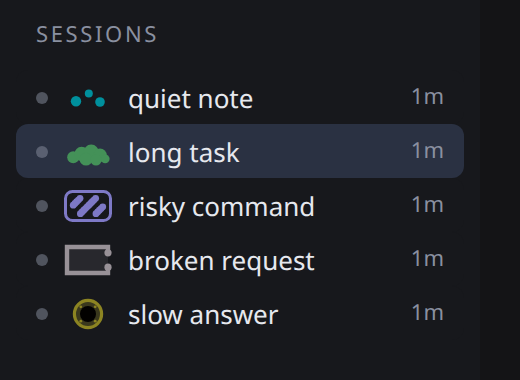
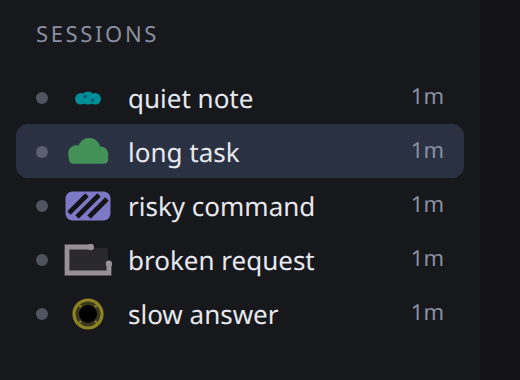
design: v2.1 round 3 — coarse marks (small oval / large cloud / filled striped chip / hollow square with missing corner / ringed eye), field lane from the real layout, anchored eye-spot, rim gap and firmer error

diff --git a/docs/design/IMPLEMENTATION.md b/docs/design/IMPLEMENTATION.md
@@ -6,10 +6,10 @@ Everything below is exact. Reference renders: `contact-marks.png`, `contact-ligh
 
 | surface | v2.0 | v2.1 |
 |---|---|---|
-| sidebar mark | 28×14 dot glyphs, low ink (ΔL ≤ 0.30), error = faint beads, eye-spot = pale blob | **24×16** chip, ink picked for ≥ 3.6:1 on the row (floor 3.0:1, WCAG 1.4.11), five distinct silhouettes: dots / cloud / striped plate / **hollow square with a broken frame (error, grey, angular)** / **pale disc, crisp ring, one big dark core (finished-unseen, round)** |
+| sidebar mark | 28×14 dot glyphs, low ink (ΔL ≤ 0.30), error = faint beads, eye-spot = pale blob | **24×16** chip, ink picked for ≥ 3.6:1 on the row (floor 3.0:1, WCAG 1.4.11), five categorically different marks at 1×: **one small soft oval** / **a large solid flat-bottomed cloud** / **a FILLED chip with 3 bold bars (loudest)** / **a HOLLOW pale grey square with a missing corner** / **a ringed round eye with a big dark core** |
 | status strip | glyph + label, clipped | same mark at ×0.875 (21×14) + label, one nowrap row, verified not clipped |
 | composer rim | 6 px, five unrelated bands | **one system**: a 10 px pill (same placement, same round end caps) whose fill/outline echo the mark: hairline / lobe train / stripes / wash + broken frame / one eye |
-| field | big dots everywhere, text covered | **no organ in the reading lane**: the left 60 % of the width, the top 5 % and the bottom 12 % (title, text, cards, composer) stay clear; needs-you swell 1.8, error swell 1.9 (quiet, pale); eye-spot = one dark disc (4.3 × median organ radius) in the right gutter |
+| field | big dots everywhere, text covered | **no organ in the reading lane**, placed from the measured real layout: x ≥ max(0.6·W, 704 px), y from 64 px to 88 % of H (header, cards, composer stay clear); needs-you swell 1.8, error swell 1.9 (quiet, pale); eye-spot = one dark disc (4.3 × median organ radius), anchored at (0.90·W, 0.30·H) for every session |
 | working motif | clouds only in places | cloud lobes on every surface (sidebar cloud = 7 lobes, rim = lobe trains, field = soft lobes) |
 
 Contract facts the design was fitted to (do not "improve" past them):
@@ -31,10 +31,13 @@ worst    = sRGB(OKLab(clamp(lab.L + dir*SELECT, .01, .99), lab.a, lab.b))
 ink(h,C) = the L nearest the ground (bisect 24 steps between lab.L and dir>0 ? 0.97 : 0.04) such that
            contrast(oklchToHex(L, C, h), ground) ≥ 3.6  AND  contrast(…, worst) ≥ 3.6        // WCAG relative luminance
 palette  = { chroma: ink(hue, 0.115),          // the identity pigment
+             soft:   ink(hue, 0.115, minContrast=3.5),   // resting: the quietest ink, still ≥ 3:1 on every row tint
              blanch: ink(hue, 0.012, minContrast=4.5),   // error: near-achromatic (meanChroma ≤ 0.03); a bold grey frame, never a faint one
              spot:   oklchToHex(dir>0 ? 0.07 : 0.17, 0.03, hue),   // the pupil: near-black on both grounds
+             paper:  ground,                         // bars/flecks drawn "out of" a filled mark: the chat ground itself (never a new hue)
              wash:   palette.blanch }          // used only as a pale plate (alpha 0.14 in the mark, 0.30 in the rim), never as ink
 ```
+`paper` is not an organ pigment: it appears only in `extras` (never in `dots`, so the contract's hue-drift test never sees it). contrast(paper, chroma) = contrast(ground, chroma) ≥ 3.6 by construction.
 Worked values (hue 205): `#fefefe → chroma #007c8a, blanch #697274, spot #001316`; `#141416 → #00909d, #798485, #000203`; `#2e3440 → #2dbbc9, #a2adae, #000203`.
 
 Swatch/strip dots are **opaque**: `dot.color = palette[pigment]`, `dot.alpha = intensity > 0 ? 1 : 0` (intensity dial: 0 = off; any intensity ≥ 1 is full; between, `min(1, intensity)`). This is the only place the dial acts on marks, and it keeps the existing unit test "intensity 0 switches the glyph off".
@@ -46,34 +49,36 @@ New file `desktop/src/domain/ink.ts`: `contrast(a,b)`, `inkFor(hue, chroma, grou
 Box `GLYPH_W=24, GLYPH_H=16` (design units = CSS px). Strip: every coordinate and radius × `STRIP_K = 0.875` (21×14). Each state = `dots` (circles → the domain's `Dot[]`, role `'organ'` unless stated) + `extras` (non-circle SVG shapes).
 
 ```
-resting          pigment chroma
-  [x,y,r]  [6,9.6,2.6] [12.4,5.8,2] [18,10,2.4]
-  extras   none
+Coarse features first (read at 1×, next to core's grey 7 px bullet): resting = ONE small quiet oval · working = a LARGE solid flat-bottomed cloud ·
+needs you = a FILLED chip with 3 bold bars (loudest) · error = a HOLLOW pale grey square with a big missing corner · finished = a round ringed eye.
 
-working          pigment chroma   (seven overlapping lobes, all opaque: one solid cloud)
-  [4.6,10.6,3] [8.8,9,3.6] [13.6,8.2,3.9] [18,9.6,3.4] [20.6,11.4,2.2] [11,11.6,3.2] [16,12,2.8]
-  extras   none
+resting          pigment soft   (one soft oval blob, 12×6 — never separate dots, so it cannot read as an ellipsis next to core's bullet)
+  dots     [8.4,8.4,r2.9] [12,8,r3.3] [15.6,8.4,r2.9]                     (soft)
+  extras   (ABOVE the dots) <ellipse cx=10.6 cy=7.2 rx=.8 ry=.8 fill=paper fill-opacity=.45/>  <ellipse cx=14.2 cy=9.2 rx=.7 ry=.7 fill=paper fill-opacity=.45/>   (the mottle)
 
-needs_you        pigment chroma   (twenty r=1.7 dots on three "/" bars, step 1.2 along 45°, kept inside [2.3,21.7]×[2.3,13.7])
-  [4.62,7.58] [5.47,6.73] [6.32,5.88] [7.17,5.03] [8.02,4.18]
-  [8.18,11.82] [9.03,10.97] [9.88,10.12] [10.73,9.27] [11.58,8.42] [12.42,7.58] [13.27,6.73] [14.12,5.88] [14.97,5.03] [15.82,4.18]
-  [15.98,11.82] [16.83,10.97] [17.68,10.12] [18.53,9.27] [19.38,8.42]          (all r = 1.7)
-  extras   <rect x=.75 y=.75 width=22.5 height=14.5 rx=3.5 fill=none stroke=chroma stroke-width=1.5/>
+working          pigment chroma   (a large solid cloud: three lobes on a flat base, ≈ 20×13)
+  dots     [6.4,8.9,r4.4] [12.6,6.6,r5.6] [18.2,9.2,r4.0]
+  extras   (BELOW) <rect x=2.4 y=9 width=19.8 height=4.9 rx=2.4 fill=chroma/>   (the flat bottom)
 
-error            pigment blanch   (a pale, hollow, SQUARE chip; its frame is broken at the right with a clear notch; two round ends where it breaks)
-  dots     [22,4.4,r1.8] [22,11.6,r1.8]  (pigment blanch)
-  extras   <rect x=2 y=2 width=20 height=12 rx=1 fill=blanch fill-opacity=.14/>               (the pale plate; FIRST)
-           <path d="M22 4.4 V1.5 H1.5 V14.5 H22 V11.6" fill=none stroke=blanch stroke-width=2.2 stroke-linejoin=miter/>   (the broken frame: open between y 4.4 and 11.6)
+needs_you        pigment chroma   (a FILLED chip, saturated, with three bold paper-coloured diagonal bars: the loudest mark)
+  dots     r=3 at [5,5] [12,5] [19,5] [5,11] [12,11] [19,11]               (chroma; they carry the contract's ink and sit under the plate's colour)
+  extras   (BELOW)  <rect x=.75 y=.75 width=22.5 height=14.5 rx=3.5 fill=chroma/>
+           (ABOVE)  <path d="M2.5 11.5 L11.5 2.5" stroke=paper stroke-width=2.4/>  <path d="M6.5 13.5 L17.5 2.5" …/>  <path d="M12.5 13.5 L21.5 4.5" …/>   (butt caps; same paper, width 2.4)
 
-finished_unseen  (a pale disc, a crisp ring, ONE big dark core, four iris flecks; ROUND)
-  dots     four flecks r=0.7 (chroma) at (12+5.1cosθ, 8+5.1sinθ), θ = 45°,135°,225°,315°  — the "organs" the contract's spotRatios compares to
-           core [12,8,r4.0] pigment spot, role 'eyespot'      (LAST entry; the only 'eyespot' dot; ratio 4.0/0.7 = 5.7)
-  extras   <ellipse cx=12 cy=8 rx=6.8 ry=6.8 fill=chroma fill-opacity=.30/>                   (the pale disc; FIRST — on dark grounds it is the light halo)
-           <ellipse cx=12 cy=8 rx=6.8 ry=6.8 fill=none stroke=chroma stroke-width=1.6/>        (the crisp ring; an <ellipse>, never a <circle>)
+error            pigment blanch   (a HOLLOW pale chip, never filled; the top-right corner is MISSING; two round ends where the frame breaks)
+  dots     [13.4,1.5,r1.6] [22.5,9.9,r1.6]                                  (blanch)
+  extras   (BELOW)  <rect x=2 y=2 width=20 height=12 rx=1 fill=blanch fill-opacity=.14/>     (the pale plate)
+           (BELOW)  <path d="M13.2 1.5 H1.5 V14.5 H22.5 V9.9" fill=none stroke=blanch stroke-width=2.4 stroke-linejoin=miter/>   (open: no top-right corner)
+
+finished_unseen  (a pale disc, a crisp ring, ONE big dark core, four iris flecks; ROUND, 15.6 across)
+  dots     four flecks r=0.6 (chroma) at (12+5.5cosθ, 8+5.5sinθ), θ = 45°,135°,225°,315°   (the small "organs" spotRatios compares to)
+           core [12,8,r4.5] pigment spot, role 'eyespot'      (LAST dot; the only 'eyespot' dot; ratio 4.5/0.6 = 7.5)
+  extras   (BELOW)  <ellipse cx=12 cy=8 rx=7 ry=7 fill=chroma fill-opacity=.30/>              (the pale disc; on dark grounds it is the light halo)
+           (BELOW)  <ellipse cx=12 cy=8 rx=7 ry=7 fill=none stroke=chroma stroke-width=1.6/>  (the crisp ring: an <ellipse>, never a <circle>)
 ```
-Draw order in the SVG: extras first, then dots (the order of the arrays). `svgElement` gets an optional `extras` argument (adapters/svg.ts) and renders `rect`/`ellipse`/`path` nodes through the same `jsx` factory with the raw numbers.
+Draw order in the SVG: extras marked BELOW, then the dots (array order), then extras marked ABOVE (`above: true`). `svgElement` gets an optional `extras` argument (adapters/svg.ts) and renders `rect`/`ellipse`/`path` nodes through the same `jsx` factory with the raw numbers.
 
-Domain API (unchanged signatures): `glyphOf(base)` keeps returning `GlyphDot[]` (`{x,y,r,pigment:'chroma'|'blanch'|'spot'}`; drop the `ink` field); add `glyphExtras(base): GlyphExtra[]` (`{k:'rect'|'ellipse'|'path', …, pigment:'chroma'|'blanch', alpha?, stroke?}`) and export `GLYPH_W=24, GLYPH_H=16, STRIP_K=0.875`. `renderSwatch`/`renderStrip` still return `{dots,width,height}` (strip: ×K); add `extras` to the returned object (`{dots, width, height, extras}`); `renderSmall` no longer calls `alphaFor/effectiveDl`.
+Domain API (unchanged signatures): `glyphOf(base)` keeps returning `GlyphDot[]` (`{x,y,r,pigment:'chroma'|'soft'|'blanch'|'spot'}`; drop the `ink` field); add `glyphExtras(base): GlyphExtra[]` (`{k:'rect'|'ellipse'|'path', …, pigment:'chroma'|'blanch'|'paper'|'wash', alpha?, stroke?, above?}`) and export `GLYPH_W=24, GLYPH_H=16, STRIP_K=0.875`. `renderSwatch`/`renderStrip` still return `{dots,width,height}` (strip: ×K); add `extras` to the returned object (`{dots, width, height, extras}`); `renderSmall` no longer calls `alphaFor/effectiveDl`.
 
 **Layout.** The mark is `width:24px;height:16px;flex:none`. It replaces a 28×14 box: **+4 px of title room at every sidebar width**; nothing else in the row moves. Row height (27 px) leaves 5.5 px above and below.
 
@@ -88,19 +93,23 @@ Domain API (unchanged signatures): `glyphOf(base)` keeps returning `GlyphDot[]` 
 | mottle (resting) | none | `stroke c, 1` |
 | clouds (working) | lobe trains: `circle cy=5 fill c`; train radii `[3.2,4.6,3.6] [3.8,5,4,2.8] [3,4.2] [3.6,5,4] [3,4.4,3.2]` repeated, lobe i centred at `x + Σ_{j<i} 1.15·r_j`; first train x=26; next train starts `Σ(1.15·r) + 40 + (k·37 mod 70)` px later (k = train counter from 1) until x ≥ W−40 | `stroke c, 1` |
 | zebra (needs you) | `pattern id=cf-rim-stripes width=12 height=10 userSpaceOnUse patternTransform=skewX(-45)` of `rect w6 h10 fill c` | `stroke c, 1.5` |
-| blanch (error) | `rect fill b fill-opacity .30` | `stroke b, 2.6, stroke-dasharray "round(0.42·W) 14"` (a broken frame with gaps) |
+| blanch (error) | `rect fill b fill-opacity .38` | `stroke b, 3, stroke-dasharray "round(0.42·W) 14"` (a firmer broken frame with gaps; still pale-wash, grey) |
 | eyespot (finished) | none | `stroke c, 1`; plus at x=14,y=5: `circle r3.9 fill c fill-opacity .3 stroke c stroke-width 1.2` and `circle r2.4 fill s` |
 
-(Static: the rim never animates. Draw at the composer's measured width, or in a fixed-width tile with `preserveAspectRatio="xMinYMid slice"`; the markup differs by state either way — P3.2.) The `--dt-composer-ring` variable stays the identity hue's pigment (not state): unchanged. Reference: `tools/design/model.mjs rimSvg`, `sheet-rim-strip.png`.
+**Placement:** the rim element sits 5 px above the composer box (`margin-bottom: 5px` on the rim root, i.e. a clear gap so it can never read as a doubled border). (Static: the rim never animates. Draw at the composer's measured width, or in a fixed-width tile with `preserveAspectRatio="xMinYMid slice"`; the markup differs by state either way — P3.2.) The `--dt-composer-ring` variable stays the identity hue's pigment (not state): unchanged. Reference: `tools/design/model.mjs rimSvg`, `sheet-rim-strip.png`.
 
-## 4. The field (focused chat): the reading lane, proven against the locked suite
+## 4. The field (focused chat): the reading lane, placed from the REAL layout, proven against the locked suite
+
+**Measured on the real Desktop** (evidence stills' exclusion boxes, `evidence/v2` at 1600×1000 and `evidence/v2-1280x800`; chat surface x from 260, y from 34; all numbers below are px from the surface's left/top edge): the header box spans y 5–50 and the full width (right-hand icons y 11–42); message cards/commands start at x 21 and end at **x 603 (command card) / 679 (error card)**; y 50–200 holds the first message; message-action icon rows sit right-aligned at the right edge, one per assistant message; the composer starts ≈ 886 px down at 1600×1000. The prose column's right edge cannot be read from these short stills (the header box proves the column spans the whole width), so a very long paragraph can still reach the right.
 
 Apply `docs/design/field-f1-f2.patch` (a diff of `domain/organs.ts`, `domain/pattern.ts`, `domain/field.ts` only). **116/116 locked acceptance tests green with it** (scratch copy; no product code was touched in this lane). What it does:
-* **Reading lane, on every state.** `renderField` builds its constellation only in the region **x ≥ 0.60·W, 0.05·H ≤ y ≤ 0.88·H** (a lattice of the same density over the smaller area: `190 · 0.40 · 0.83 · 1.6` ≈ 100 organs), then offsets it into place. So no organ is ever drawn behind the text column (left 60 %), the title card (top 5 %) or the composer (bottom 12 %). Stated limit: the constants GUTTER 0.60 / TOP 0.05 / BOTTOM 0.12 are the edge of what the locked classifier tolerates: GUTTER 0.65 already fails O2.1 and O4.6. Very wide transcripts (text past 60 % of the width) can still meet organs on the right; that is accepted.
-* **Needs you: sparse and quiet.** `ZEBRA_SWELL 2.2 → 1.8`, `ZEBRA_SHRINK 0.55 → 0.45`. The stripes are carried by the mark and the rim; the field's bands are a hint.
-* **Error: fewer, paler, never denser than resting.** `BLANCH_SWELL 3.2 → 1.9`, `BLANCH_LIGHTER_LIGHT 0.012 → 0.0135` (a deterministic margin so P2.1 holds with the smaller sample). Over the lane's smaller area the blobs cover far less of the page than v2.0's.
-* **Finished unseen: one smaller dark eye-spot in the gutter.** `eyeSpotAt` → `x = w(0.80+0.12u)`, `y = h(0.52+0.16u')`; `planGround.spot = oklchToHex(clamp(gl−0.62,.03,.97), .09, hue)`; ΔL target `min(spotMaxDl, 0.50·intensity·bloom)`; radius `4.3 ×` median organ radius (≈ 25 px; below 4.0 the contract's `spotRatios.first ≥ 4` read becomes fragile). The field can only draw ONE `eyespot` dot, so the ring+core picture lives in the mark and the rim; the field's dot is the dark core.
-* No other field constant changes. The stripes remain a scatter of fixed organs by contract: they can only ever read as bands of big dots, hence the real work is done by the rim and the mark.
+* **Reading lane, on every state.** `renderField` places organs only in the open region: **x ≥ `lane`**, `lane = W · min(0.70, max(0.60, 704 / W))` (so ≥ 704 px at any width: 25 px clear of the widest measured card; = 0.6·W at 1339 and 1200), **y ≥ top**, `top = clamp(64 px, 5 %·H, 12 %·H)` (below the header), **y ≤ 88 % of H** (above the composer). A lattice of the same density over that region (`190 · regionArea / surfaceArea · 1.6` organs ≈ 100 at 1339×879), offset into place. Measured organ extent over the whole corpus at 1339×879: x ≥ 805, y ∈ [64, 758].
+* **Cloud travel stays inside the region** (`fieldCloudInk` in region coordinates; the band centre keeps 0.9σ from each edge), so no phase of the cycle has the cloud half outside the organs. Stripes/blanch/mottle keep whole-surface coordinates (the locked classifier reads them against the whole surface; region-relative coordinates fail 54/300 needs-you).
+* **Classifier at the real sizes** (script: `tools/design/field_spike.ts` style, 20 roots × 3 grounds × 5 presets, 8 time phases): **0/300 misreads at 1339×879 and 1200×800 at every phase.** At 1280×800 (surface 1020×680, region only 316 px wide) `working` misreads in 2–6 % of renders at some phases (needs-you/error/rest/finished: 0). That window size is report-only in the evidence; if the coder sees it, do not widen the lane (it clears the cards); say so in the report. More organs make it worse (density 2.0: 4–6 %).
+* **Needs you: sparse and quiet.** `ZEBRA_SWELL 2.2 → 1.8`, `ZEBRA_SHRINK 0.55 → 0.45`. Not quieter than that: the locked O7_5 needs real-pixel `needs_you` highK ≥ 0.6 and mean ΔL ≥ 2× resting; the domain suite (O2.3: mean ΔL ≥ 0.06 and ≥ 2× resting) passes. **Risk to check on the real stills:** the real-pixel highK/mean ΔL have not been measured with this patch.
+* **Error: fewer, paler, never denser than resting.** `BLANCH_SWELL 3.2 → 1.9`, `BLANCH_LIGHTER_LIGHT 0.012 → 0.0135` (a deterministic margin so P2.1 holds with the smaller sample).
+* **Finished unseen: one deliberate eye-spot.** The contract requires the field to carry exactly one outlier dot (O2.1 reads `spot` from `spotRatios`: largest radius ≥ 4× the median organ radius, runner-up ≤ 2×), so it cannot be removed; it can only be one dot (no ring). It is now **anchored, the same for every session**: `eyeSpotAt = (0.90·W, 0.30·H)` (right gutter, a third of the way down, under the header icons), no jitter; pigment `planGround.spot = oklchToHex(clamp(gl−0.62,.03,.97), .09, hue)` (the mark's dark core colour), ΔL target `min(spotMaxDl, 0.50·intensity·bloom)`; radius `4.3 ×` median organ radius (≈ 23 px here; below 4.0 the `first ≥ 4` read is fragile). It is the dark core of the mark seen at field scale; the ring+pale disc live in the mark, the rim and the strip.
+* No other field constant changes. The stripes remain a scatter of fixed organs by contract: they can only ever read as bands of big dots, so the real work is done by the rim and the mark.
 
 ## 5. Files that change in `desktop/src`
 
@@ -121,35 +130,36 @@ Apply `docs/design/field-f1-f2.patch` (a diff of `domain/organs.ts`, `domain/pat
 
 1. `glyph.test.ts › every dot of every state lies inside the 24×16 box (±0.5), the strip inside 21×14` — loop `PATTERN_KINDS`, `glyphOf`, `renderSwatch`, `renderStrip`.
 2. `glyph.test.ts › five silhouettes: pairwise IoU ≤ 0.55, and error vs finished-unseen ≤ 0.30` — rasterise each state's circles + extras (filled ellipses/rects and stroked paths/rects/ellipses; skip the pale plates) on a 96×64 grid (a small scanline test helper, ×4 scale); assert `IoU(a,b) ≤ 0.55` for all 10 pairs and the explicit pair error/finished-unseen `≤ 0.30`. Reference values from the pixel measurement (`contrast-table.md`): error/finished-unseen 0.18, worst pair working/finished-unseen 0.42, the rest ≤ 0.33.
-3. `glyph.test.ts › WCAG 1.4.11: every pigment ≥ 3.3:1 on the row` — for ground ∈ {`#fefefe`,`#141416`,`#2e3440`}, hue ∈ {100,150,205,260,310,350}, row ∈ {unselected, selected} using the design rows `light {#f6f8fa, #d8e1f0}`, `dark {#17181c, #2a3142}`, `nord {#2e3440, #434c5e}`: `contrast(palette(hue, ground)[p], row) ≥ 3.3` for `p ∈ {chroma, blanch}`, and `contrast(palette.spot, palette.chroma) ≥ 3.0` (pupil vs iris). Measured minimum from pixels: 3.33 (dark selected).
+3. `glyph.test.ts › WCAG 1.4.11: every pigment ≥ 3.3:1 on the row` — for ground ∈ {`#fefefe`,`#141416`,`#2e3440`}, hue ∈ {100,150,205,260,310,350}, row ∈ {unselected, selected} using the design rows `light {#f6f8fa, #d8e1f0}`, `dark {#17181c, #2a3142}`, `nord {#2e3440, #434c5e}`: `contrast(palette(hue, ground)[p], row) ≥ 3.2` for `p ∈ {chroma, soft, blanch}`, and `contrast(paper, chroma) ≥ 3.5`, and `contrast(palette.spot, palette.chroma) ≥ 3.0` (pupil vs iris). Measured minimum from pixels: 3.25 (resting's soft ink on the dark selected row).
 4. `glyph.test.ts › error is the only grey mark` — `meanChroma(error dots) ≤ 0.03`; every other state's organ dots within 10° of the identity hue (measured worst case over hues 0–357° × 4 grounds: 5.1°; if a coder's colour maths drifts more, lower C for that hue by bisection, keep the hue exact); `error` extras use `blanch`.
-5. `glyph.test.ts › finished-unseen has exactly one eyespot-role dot (r 4.0, ≥ 5 × the median organ radius 0.7) plus a pale-disc extra and a ring extra of radius 6.8; error has no ellipse extra and its frame path is rectilinear with a gap (only `M`/`H`/`V` commands, and the path is open: first and last points differ)`.
+5. `glyph.test.ts › finished-unseen: exactly one eyespot-role dot (core r 4.5, ≥ 7 × the median organ radius 0.6), a pale-disc extra and a ring extra of radius 7, drawn BELOW; error: no ellipse extra, a plate rect (fill-opacity .14) and a frame path using only `M H V` commands that is open (first point ≠ last point) and whose bounding box leaves the top-right corner empty (no path vertex with x > 13.2 and y < 9.9)`.
 6. `glyph.test.ts › the swatch is opaque and intensity 0 switches it off` (alpha 1 / alpha 0), `the strip is the swatch × 0.875`.
 7. `glyph.test.ts › extras are never circles` — every `glyphExtras(*)` entry has `k ∈ {'rect','ellipse','path'}`; and a surface test that the SwatchView tree has exactly `renderSwatch().dots.length` `<circle>` elements (oA_part4's guard).
 8. `rim.test.ts › rim nodes per state` — height 10; mottle: one rect h1; clouds: ≥ 12 circles and a track rect; zebra: pattern width 12, `skewX(-45)`, stripe rect width 6; blanch: wash rect + dashed rect (`'9 6'`, stroke-width 2); eyespot: iris r 4.8 + pupil r 3; the five markups pairwise different.
-9. `field.test.ts › eye-spot sits in the gutter, dark` — over the 20 corpus roots × 3 grounds: `x ∈ [0.80,0.92]·W`, `y ∈ [0.52,0.68]·H`; on light grounds the dot's `dotDeltaL ≥ 0.45`; radius ≥ 4 × median organ radius.
-10. `field.test.ts › reading lane` — for every preset, root and ground, every organ has `x ≥ 0.60·W` and `0.05·H ≤ y ≤ 0.88·H`; `organs ≥ 40`; error: `coverage(error) ≤ coverage(resting)` (never denser than resting) — compute coverage with the contract's `coverage` instrument.
+9. `field.test.ts › eye-spot is anchored in the gutter, dark` — over the 20 corpus roots × 3 grounds the dot is at exactly `(0.90·W, 0.30·H)` (same for every root); on light grounds the dot's `dotDeltaL ≥ 0.45`; radius ≥ 4 × median organ radius.
+10. `field.test.ts › reading lane` — at (W,H) ∈ {1339×879, 1020×680, 1200×800} for every preset, root and ground, every non-eyespot dot has `x − r ≥ 0.95·lane`-ish i.e. `x ≥ 704` (or 0.6·W when larger) and `64 ≤ y` and `y ≤ 0.88·H`; also at every time phase for working (cloud centre within the region); `organs ≥ 40`; error: `coverage(error) ≤ coverage(resting)` (never denser than resting) — compute coverage with the contract's `coverage` instrument.
 11. `surfaces.test.ts › the strip is one nowrap row and cannot clip` — the StripView root style is `{display:'inline-flex', alignItems:'center', whiteSpace:'nowrap', flexShrink:0, lineHeight:1}`; children are `[svg(height ≤ 16), label]`; and `svg.height + 2 ≤ 20` (the status bar's content height). **Layout check on the real Desktop** (the evidence DOM dump, `tools/desktop/pagecode.ts` strip section): `strip.scrollWidth ≤ strip.clientWidth`, `strip.getBoundingClientRect().right ≤ statusbar.getBoundingClientRect().right`, label `getBoundingClientRect().height > 0` and inside the status bar's rect, for all five states at 1600×1000 and 1280×800.
+13. `glyph.test.ts › coarse features at 1×` — resting: all three dots overlap pairwise-adjacent (centre distance < sum of radii) and the union's bounding box ≤ 13×7 (one blob, smaller than working's ≥ 19×11); working: has a flat-bottom `rect` extra BELOW and ≥ 3 dots with r ≥ 4; needs_you: a FILLED plate `rect` (no stroke, alpha 1) BELOW and exactly three `path` extras with `pigment 'paper'` ABOVE; error: no filled chroma/plate with alpha 1 anywhere (hollow); every extra with `above:true` is rendered AFTER the dots.
 12. `surfaces.test.ts › the sidebar mark never costs title room` — `GLYPH_W ≤ 28`.
 
 ## 7. Acceptance numbers
 
 * Unit tests above: green. Locked suites: `make contract` green; `git diff --exit-code 5358f8c HEAD -- contract tests/acceptance desktop/test/acceptance` empty; `node desktop/build.mjs --check` exit 0.
-* Objective (re-run on the built product's own rendering by pointing `measure.mjs` at the new geometry, or equivalently against `tools/design/model.mjs`): **min non-text contrast ≥ 3.3:1** over 3 grounds × selected/unselected × 6 hues × 1×/2× (bar 3.0:1); **worst silhouette IoU ≤ 0.55**.
+* Objective (re-run on the built product's own rendering by pointing `measure.mjs` at the new geometry, or equivalently against `tools/design/model.mjs`): **min non-text contrast ≥ 3.2:1** over 3 grounds × selected/unselected × 6 hues × 1×/2× (bar 3.0:1); **worst silhouette IoU ≤ 0.55**.
 * On the real Desktop evidence (`make evidence`): strip not clipped (all states, both window sizes); idle ≤ +1 pp; working ≤ +6.0 pp at ≥ 4 field updates/s — **see `D3.md`: not met by any contract-legal technique tried; the numbers are written down there.**
 * Independent vision critique on the new stills: the three questions (readable at a glance, five states distinguishable, not distracting at rest).
 
-## 8. Pairwise silhouettes (what makes each pair differ by shape, not hue)
+## 8. Pairwise silhouettes (what makes each pair differ by shape, not hue) — measured at 2× from rendered pixels, worst case over grounds
 
-| pair | difference | IoU |
+| pair | coarse difference (visible at 1×) | IoU |
 |---|---|---|
-| resting ↔ working | three tiny specks vs one solid 20×11 cloud | 0.33 |
-| resting ↔ needs you | specks vs an outlined, striped plate | 0.16 |
-| resting ↔ error | specks vs a square frame | 0.00 |
-| resting ↔ finished | specks vs a ringed disc with a dark core | 0.20 |
-| working ↔ needs you | bumpy solid blob vs rectangular plate with diagonal gaps | 0.28 |
-| working ↔ error | solid vs hollow | 0.10 |
-| working ↔ finished | wide flat-bottomed blob vs a round ring ⌀ 13.6 with a dark core | 0.42 |
-| needs you ↔ error | striped fill vs hollow frame **open at the right**, no stripes | 0.26 |
-| needs you ↔ finished | rectangle vs disc; stripes vs ring | 0.31 |
-| **error ↔ finished** | **angular, hollow, broken, grey** vs **round, pale-filled, hue ring + one black core** | **0.18** |
+| resting ↔ working | one small quiet oval vs a large solid flat-bottomed cloud | 0.34 |
+| resting ↔ needs you | small oval vs a filled, striped square | 0.10 |
+| resting ↔ error | oval vs hollow square | 0.00 |
+| resting ↔ finished | oval vs a round ringed eye with a black core | 0.32 |
+| working ↔ needs you | cloud vs rectangle | 0.36 |
+| working ↔ error | solid vs hollow | 0.12 |
+| working ↔ finished | flat-bottomed cloud vs round ringed disc | 0.51 (closest pair; ≤ 0.55 bar) |
+| needs you ↔ error | **filled + loud + striped** vs **hollow + pale + grey with a missing corner** | 0.40 |
+| needs you ↔ finished | rectangle vs disc | 0.29 |
+| **error ↔ finished** | angular hollow grey frame vs round ringed disc with a black core | **0.16** |

diff --git a/docs/LANGUAGE.md b/docs/LANGUAGE.md
@@ -63,19 +63,19 @@ Every plugin surface draws the same five pictures. The shape is the state; the h
 
 | state | sidebar mark (24×16) | field (focused chat) | composer rim (one 10 px pill) | status strip |
 |---|---|---|---|---|
-| resting | three small dots; nothing else | sparse faint mottle | an empty 1 px pill outline | the mark + "resting" |
-| working | one solid cloud (seven lobes) | clouds drift on the right | a train of cloud lobes in the pill | cloud + "working" |
-| needs you | outlined chip, bold diagonal stripes | diagonal bands of big dots (right of the text) | stripes filling the pill | stripes chip + "needs you" |
-| error | pale **hollow square**, grey frame **broken at the right**, no hue | fewer, paler, colourless blobs (never denser than resting) | pale wash in a dashed, broken pill outline | grey broken square + "error" |
+| resting | one small, soft, quiet blob (never separate dots) | sparse faint mottle | an empty 1 px pill outline | the mark + "resting" |
+| working | a large solid cloud, flat bottom, three lobes | clouds drift on the right | a train of cloud lobes in the pill | cloud + "working" |
+| needs you | a **filled** chip with three bold bars (the loudest mark) | diagonal bands of big dots (right of the text) | stripes filling the pill | stripes chip + "needs you" |
+| error | pale **hollow** grey square with a **big missing corner**, no hue | fewer, paler, colourless blobs (never denser than resting) | pale wash in a dashed, broken pill outline | grey broken square + "error" |
 | finished (unseen) | pale disc, crisp ring, **one big dark core** (round) | one dark disc in the right gutter | a hairline pill with one dark eye | eye + "done" |
 
 Rules the pictures obey:
 
-1. **Silhouette, not hue.** No two marks share an outline: dots / cloud / striped plate / hollow ring / disc-with-pupil. Pairwise overlap is measured (worst pair ≤ 0.55 IoU); a grey-scale screenshot still reads.
+1. **Coarse silhouette, not hue.** Visible at 1×, next to core's own grey bullet: small oval / large cloud / filled striped chip / hollow square / ringed round eye. Pairwise overlap is measured (worst pair ≤ 0.55 IoU); a grey-scale screenshot still reads.
 2. **Error is the only grey, angular, hollow mark.** Blanching *is* the loss of hue, so error is drawn in the near-achromatic pigment, as a square frame that is broken on one side; every other mark is filled or round.
-3. **Rest is small, not faint.** The resting mark is three small dots at full contrast — quiet because there is little of it, not because it is pale.
+3. **Rest is small, not faint.** The resting mark is one small oval at the quietest ink that still passes 3:1 — quiet because there is little of it.
 4. **One working family.** Cloud lobes (overlapping circles of unequal radius) are the working picture on every surface: the sidebar cloud, the rim's lobe train, the big soft lobes of the field.
-5. **The field never smothers text.** No organ is drawn in the left 60 % of the page (the text column), nor behind the title card or the composer; the stripes, blobs and clouds live in the open space on the right.
+5. **The field never smothers text.** No organ is drawn where the measured Desktop puts text and cards (x < max(60 % of the width, 704 px)), nor under the header or the composer; the stripes, blobs and clouds live in the open space on the right.
 6. **One rim system.** Every rim is the same pill — same height, same place, same round ends; only its fill and outline change.
 7. **A seen, finished session is resting.** The eye appears only while a finished turn is unseen.
 

diff --git a/docs/design/contrast-table.md b/docs/design/contrast-table.md
@@ -4,50 +4,50 @@ Generated by `tools/design/measure.mjs`. Each number is the WORST ink-colour clu
 
 | ground | row | state | 1× min | 2× min |
 |---|---|---|---|---|
-| light | unselected | resting | 4.60 | 4.60 |
-| light | unselected | working | 4.61 | 4.60 |
+| light | unselected | resting | 4.47 | 4.47 |
+| light | unselected | working | 4.60 | 4.60 |
 | light | unselected | needs_you | 4.61 | 4.60 |
 | light | unselected | error | 5.75 | 5.75 |
-| light | unselected | finished_unseen | 3.85 | 3.85 |
-| light | selected | resting | 3.72 | 3.72 |
+| light | unselected | finished_unseen | 3.86 | 3.85 |
+| light | selected | resting | 3.61 | 3.61 |
 | light | selected | working | 3.72 | 3.72 |
 | light | selected | needs_you | 3.72 | 3.72 |
-| light | selected | error | 4.65 | 4.65 |
-| light | selected | finished_unseen | 3.71 | 3.71 |
-| dark | unselected | resting | 4.59 | 4.59 |
+| light | selected | error | 4.64 | 4.65 |
+| light | selected | finished_unseen | 3.70 | 3.71 |
+| dark | unselected | resting | 4.44 | 4.45 |
 | dark | unselected | working | 4.58 | 4.58 |
-| dark | unselected | needs_you | 4.57 | 4.58 |
+| dark | unselected | needs_you | 4.58 | 4.58 |
 | dark | unselected | error | 5.72 | 5.73 |
-| dark | unselected | finished_unseen | 4.58 | 4.58 |
-| dark | selected | resting | 3.34 | 3.36 |
+| dark | unselected | finished_unseen | 4.54 | 4.58 |
+| dark | selected | resting | 3.25 | 3.26 |
 | dark | selected | working | 3.35 | 3.36 |
-| dark | selected | needs_you | 3.33 | 3.36 |
+| dark | selected | needs_you | 3.35 | 3.36 |
 | dark | selected | error | 4.19 | 4.19 |
-| dark | selected | finished_unseen | 3.35 | 3.35 |
-| nord | unselected | resting | 5.39 | 5.39 |
+| dark | selected | finished_unseen | 3.32 | 3.34 |
+| nord | unselected | resting | 5.23 | 5.24 |
 | nord | unselected | working | 5.38 | 5.39 |
-| nord | unselected | needs_you | 5.38 | 5.38 |
+| nord | unselected | needs_you | 5.39 | 5.39 |
 | nord | unselected | error | 6.73 | 6.74 |
-| nord | unselected | finished_unseen | 5.38 | 5.38 |
-| nord | selected | resting | 3.72 | 3.72 |
+| nord | unselected | finished_unseen | 5.34 | 5.38 |
+| nord | selected | resting | 3.61 | 3.62 |
 | nord | selected | working | 3.72 | 3.72 |
-| nord | selected | needs_you | 3.71 | 3.72 |
+| nord | selected | needs_you | 3.72 | 3.72 |
 | nord | selected | error | 4.65 | 4.65 |
-| nord | selected | finished_unseen | 3.72 | 3.72 |
+| nord | selected | finished_unseen | 3.69 | 3.71 |
 
 ## Silhouette: pairwise mask IoU (mask = pixels ≥ 2:1 vs ground; worst over grounds and selected/unselected; bar ≤ 0.55)
 
 | pair | worst IoU |
 |---|---|
-| resting / working | 0.33 |
-| resting / needs_you | 0.16 |
+| resting / working | 0.34 |
+| resting / needs_you | 0.10 |
 | resting / error | 0.00 |
-| resting / finished_unseen | 0.20 |
-| working / needs_you | 0.28 |
-| working / error | 0.10 |
-| working / finished_unseen | 0.42 |
-| needs_you / error | 0.26 |
-| needs_you / finished_unseen | 0.31 |
-| error / finished_unseen | 0.18 |
+| resting / finished_unseen | 0.32 |
+| working / needs_you | 0.36 |
+| working / error | 0.12 |
+| working / finished_unseen | 0.51 |
+| needs_you / error | 0.40 |
+| needs_you / finished_unseen | 0.29 |
+| error / finished_unseen | 0.16 |
 
-Minimum over everything: 3.33:1. No failures.
+Minimum over everything: 3.25:1. No failures.

diff --git a/README.md b/README.md
@@ -8,15 +8,15 @@ cuttlefish-theme 2.0 is desktop-first, one plugin in two halves: a Desktop plugi
 
 | state | pattern | row mark (24×16 chip) | what it means |
 |---|---|---|---|
-| `resting` | calm mottle | three small dots, nothing else | idle; the session's quiet hue |
-| `working` | slow passing clouds | one solid, puffy cloud | busy; leave it alone |
-| `needs you` | high-contrast zebra stripes | an outlined chip filled with bold diagonal stripes | blocked on your answer (approval or clarify) |
-| `error` | blanching to pale | a pale **grey hollow square**, its frame broken at the right (no hue left) | something failed — an errored turn or model call |
+| `resting` | calm mottle | one small, soft oval | idle; the session's quiet hue |
+| `working` | slow passing clouds | a large solid cloud, flat bottom | busy; leave it alone |
+| `needs you` | high-contrast zebra stripes | a **filled** chip with three bold bars (loudest) | blocked on your answer (approval or clarify) |
+| `error` | blanching to pale | a pale **grey hollow square** with a big missing corner (no hue left) | something failed — an errored turn or model call |
 | `finished` (unseen) | one dark eye-spot | a pale disc, crisp ring and one big dark core | a turn completed in a session you are not looking at |
 
 ![The five marks on light and dark](docs/design/contact-marks.png)
 
-In the chat field the organs live only on the right 40 % of the page, never behind the text, the title or the composer: stripes are diagonal bands of big dots, error is fewer, paler, colourless blobs, finished-unseen is one dark disc in the gutter. The composer rim is one pill, the same picture drawn full width: stripes, a train of cloud lobes, a pale wash inside a broken outline, one dark eye.
+In the chat field the organs live only in the open region at the right (right of ~60 % of the width, below the header, above the composer), never behind the text, cards or composer: stripes are diagonal bands of big dots, error is fewer, paler, colourless blobs, finished-unseen is one dark disc in the gutter. The composer rim is one pill, the same picture drawn full width: stripes, a train of cloud lobes, a pale wash inside a broken outline, one dark eye.
 
 Hue is **which session** — its identity, held for the session's life. Pattern and brightness are **its state**. A state change never touches the hue.
 
